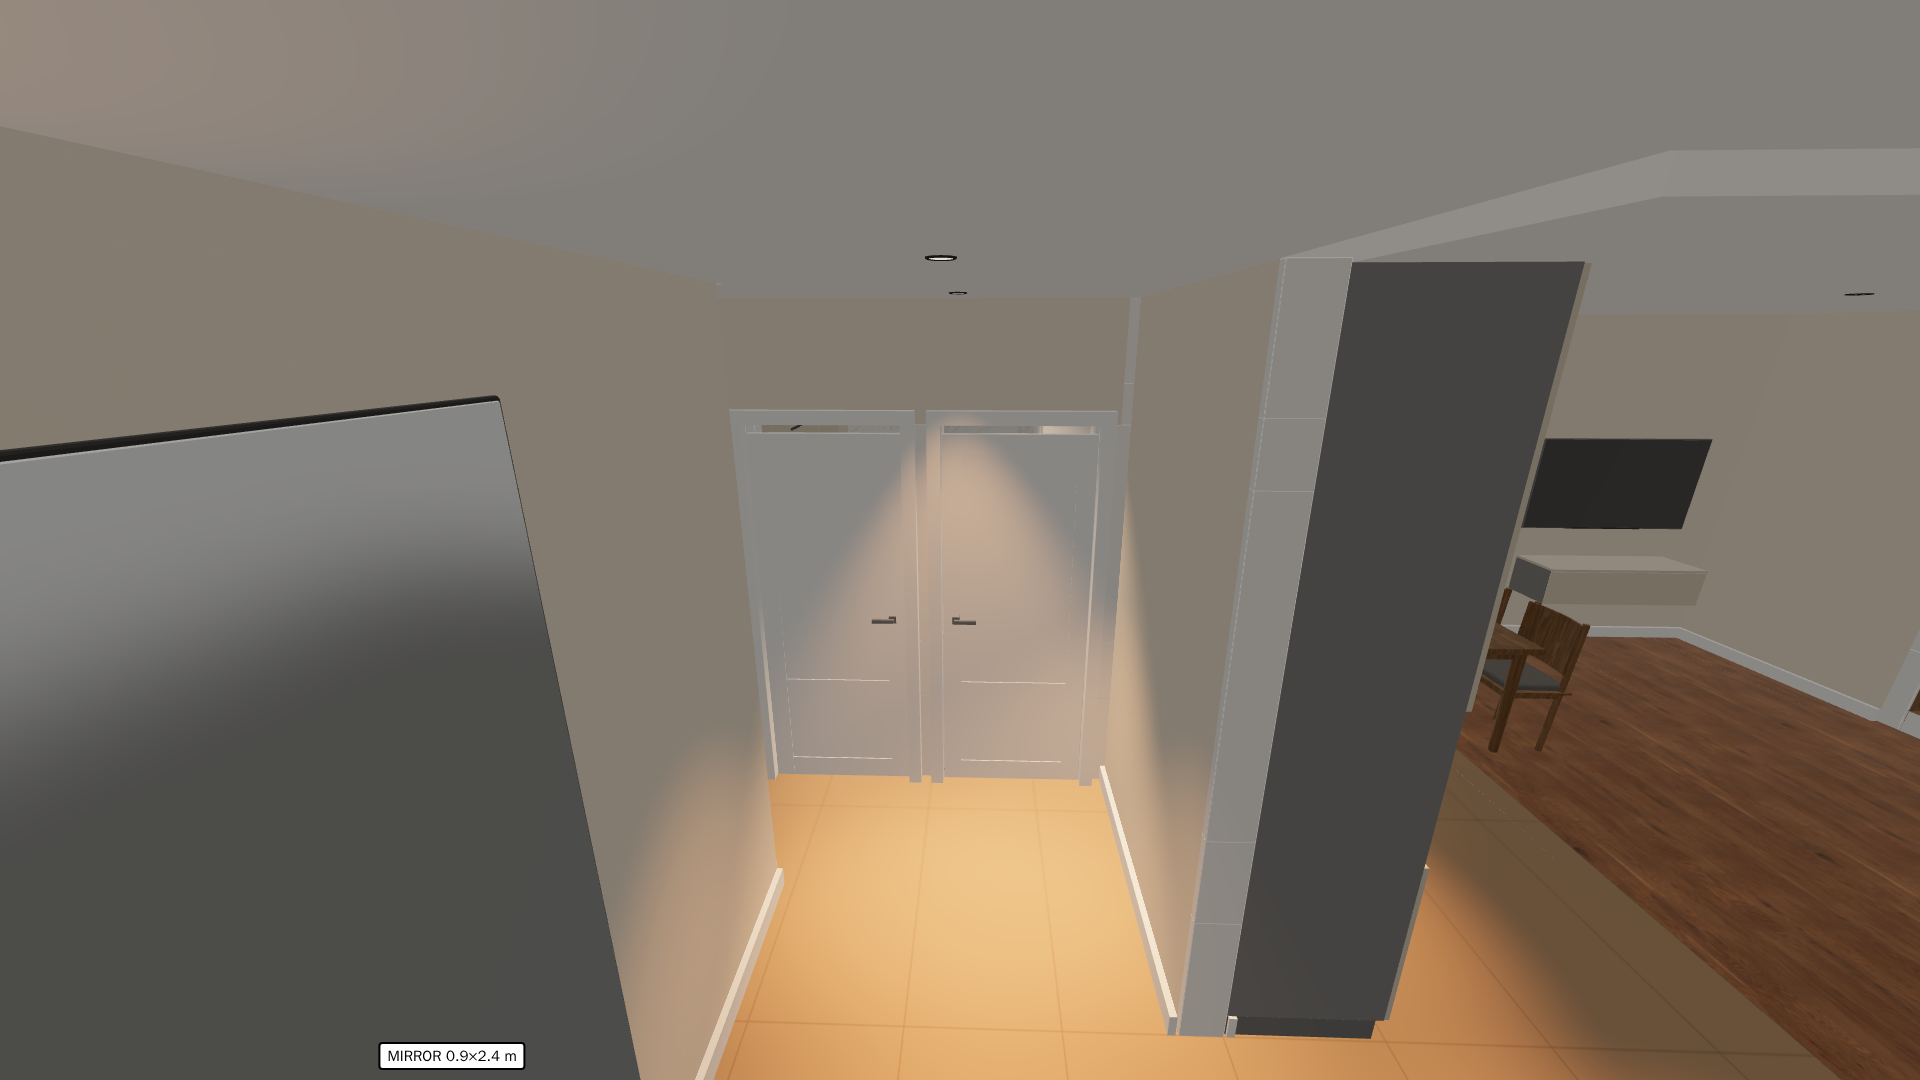
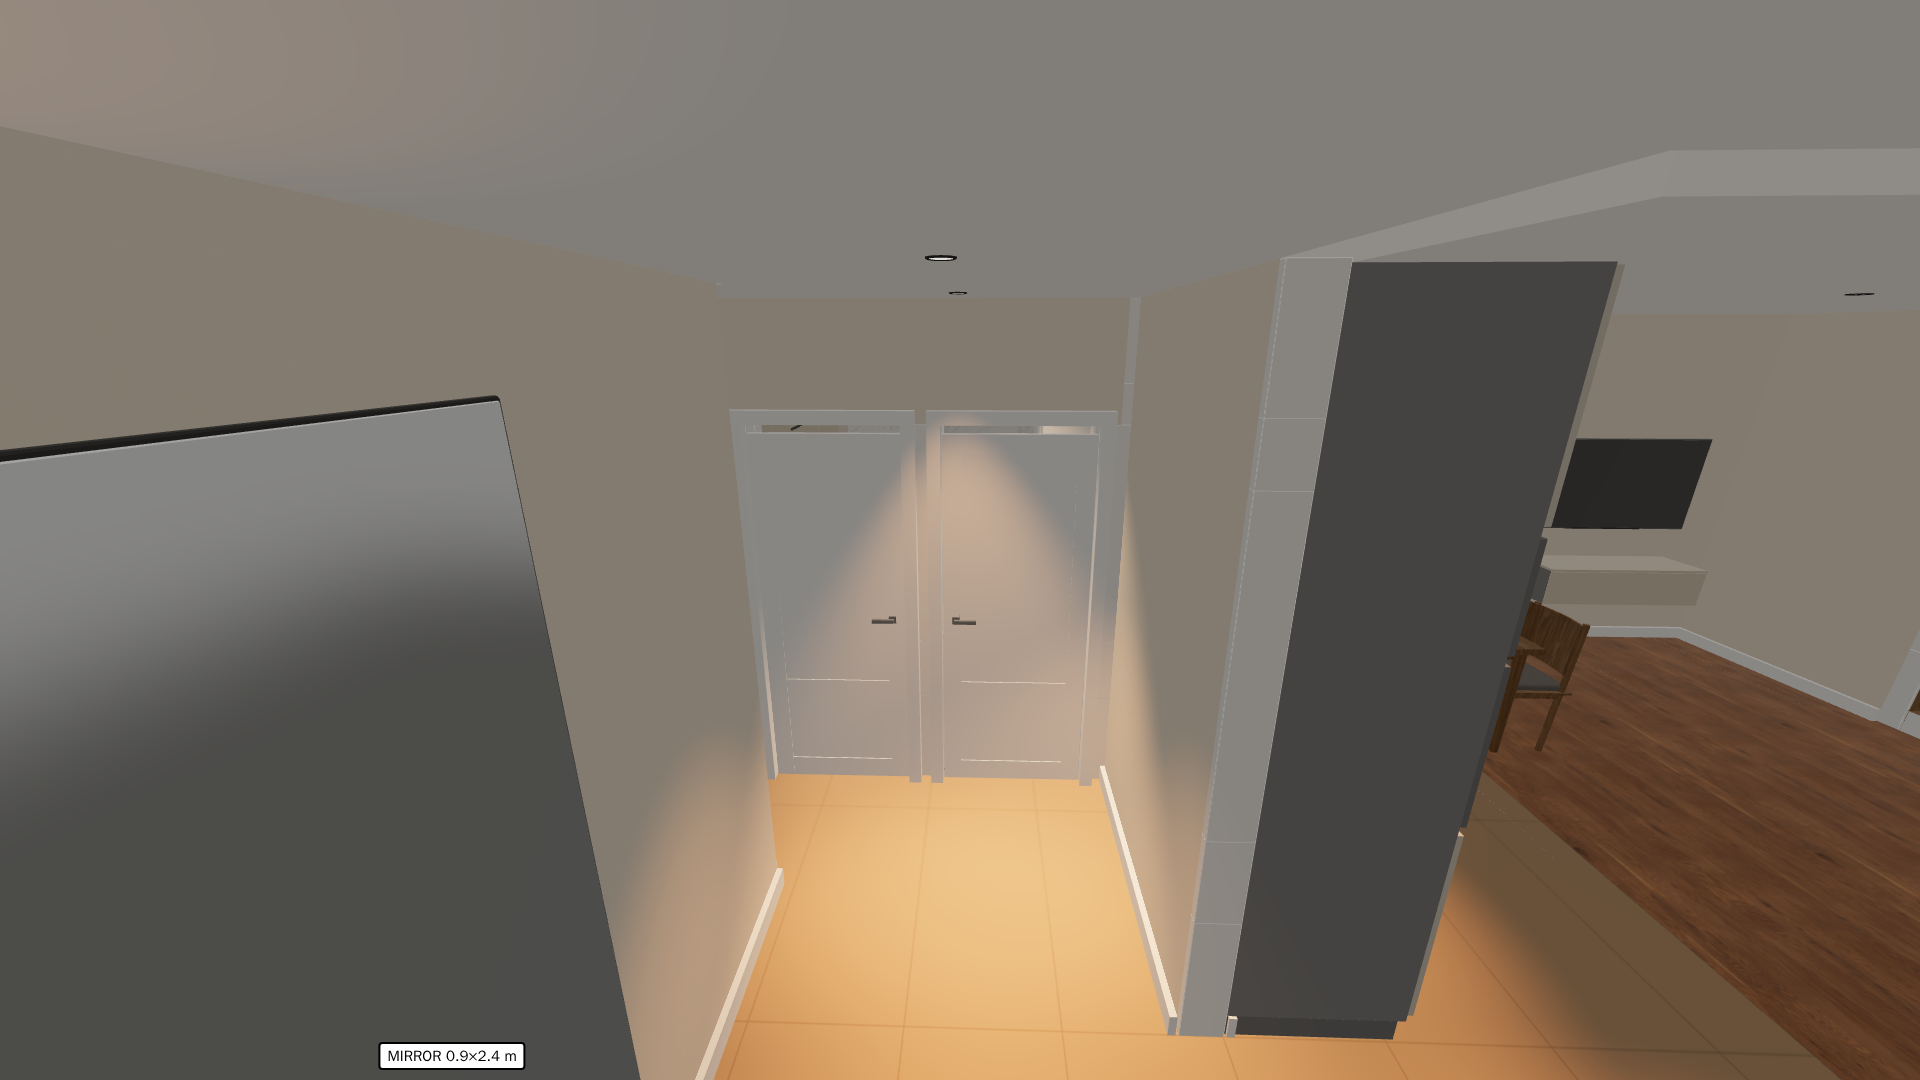
render: --photo, door counts, meta out of the gallery
--photo keeps the camera spot and heading but drops it to 1.55 m, levels the
view and puts a 60° lens on it. The CAMS presets sit at 2.4-2.65 m under a
2.7 m ceiling and look down, which is what made a small room read as a hall.

Cabinet fronts are counted from the geometry — flat panels on the front, so
side and back boards do not count — and the prompt now says how many leaves a
wardrobe has and how wide each one is. The hall wardrobe is 1.77 m across four
doors and kept coming back much wider.

The .json of each result moved to render/.meta so the final folder stays a
gallery.

Changed region(s): [[0.7188, 0.2444, 0.8438, 0.9778]]

diff --git a/render/STYLE.md b/render/STYLE.md
@@ -18,11 +18,13 @@ Decor: minimal and natural — wood and bamboo accessories in chestnut/pine tone
 
 Windows: minimal blackout roller blinds mounted tight inside the window recess — no fabric curtains or drapery of any kind.
 
+Cabinet fronts: a wardrobe, a tall unit or a kitchen run keeps the width and the number of doors given with its dimensions — a 1.77 m wardrobe with 4 doors shows exactly four leaves of 44 cm, it does not stretch along the wall or split into six narrow ones. Handles stay flush or recessed, in the style below.
+
 Mirrors: the reference marks every mirror, and a mirror stays a mirror — a frameless glass panel reflecting the room back, never turned into a door, a window, a picture or a wardrobe front. The tall mirror in the hall is 0.90 m wide and 2.40 m high on a plain wall; the bathroom mirrors sit above their basins. Their reflections show the room they stand in, lit as the room is lit.
 
 Openings: a plain rectangle on a wall is a doorway or a mirror as the shot notes say, never an invented window. Windows and balcony doors exist only where the reference shows them.
 
-Camera: 24 mm architectural lens, natural depth of field, no fisheye distortion, sharp across the room.
+Camera: an architectural lens matching the field of view stated with the dimensions below, natural depth of field, straight verticals, no fisheye or barrel distortion, sharp across the room.
 
 ## r4-door
 Kitchen-living room 22.9 m² (5.24 × 4.37 m, ceiling 2.7 m), seen from the hall doorway (camera 4.1). Layout of this series: corner kitchen along the far wall and turning into the right-hand corner, tall units and the fridge column at that corner; a full-height walnut slat panel on the right-hand wall carrying a large wall-mounted TV above a long white floating console; a low sofa without armrests in the near left corner, its back against a walnut slat panel.
